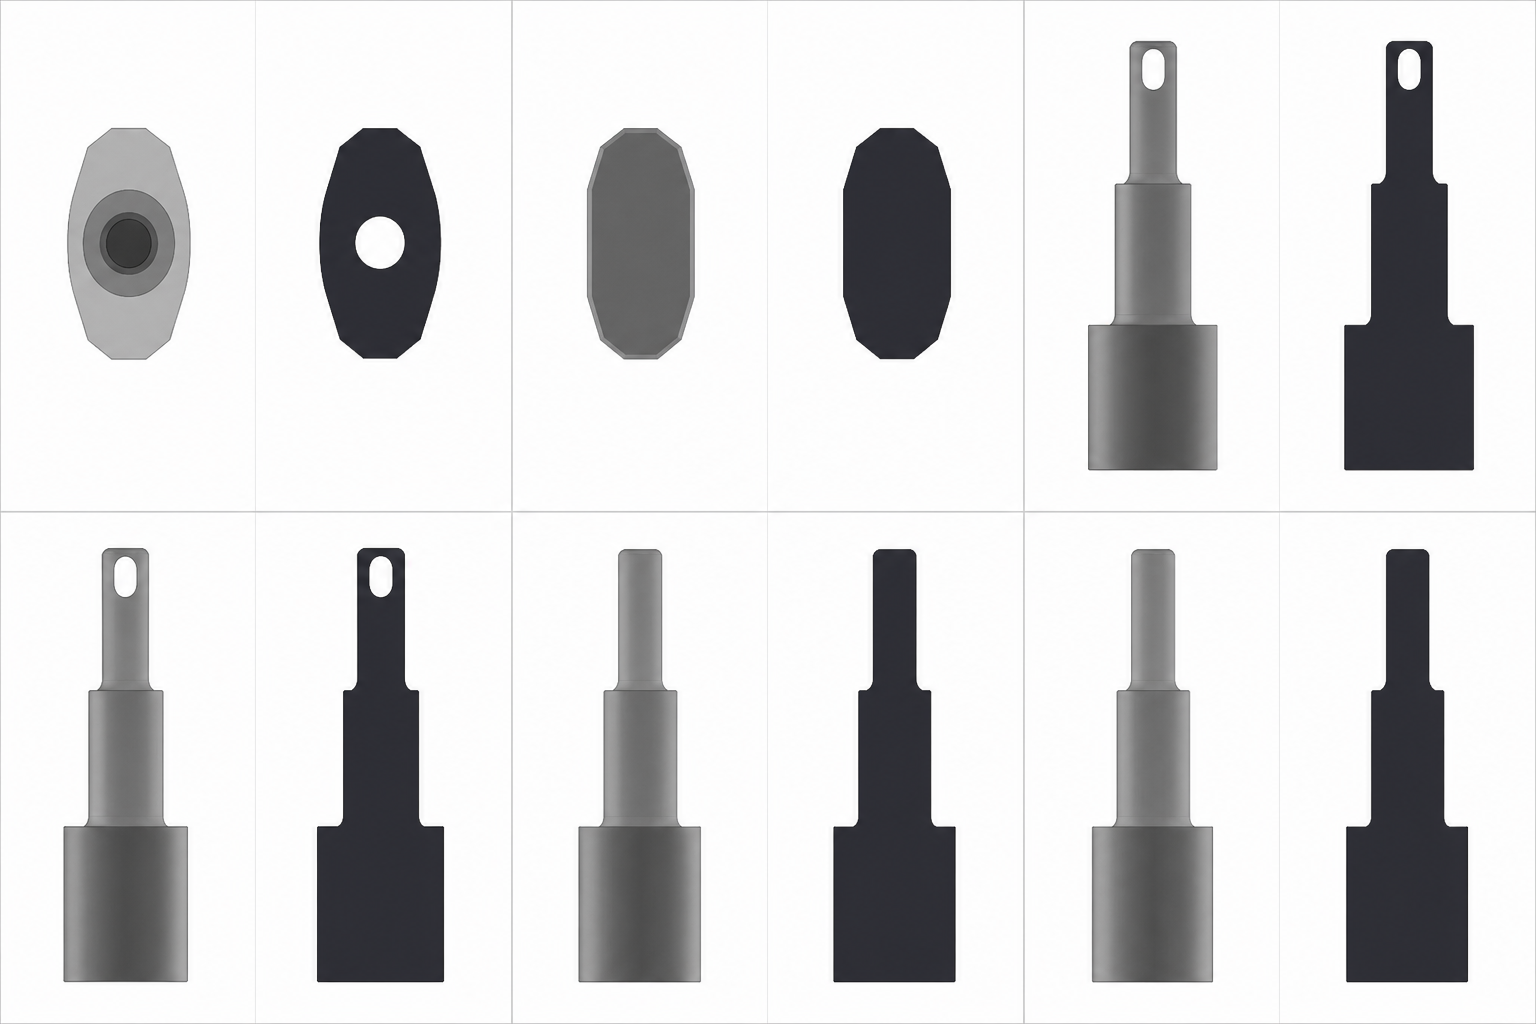
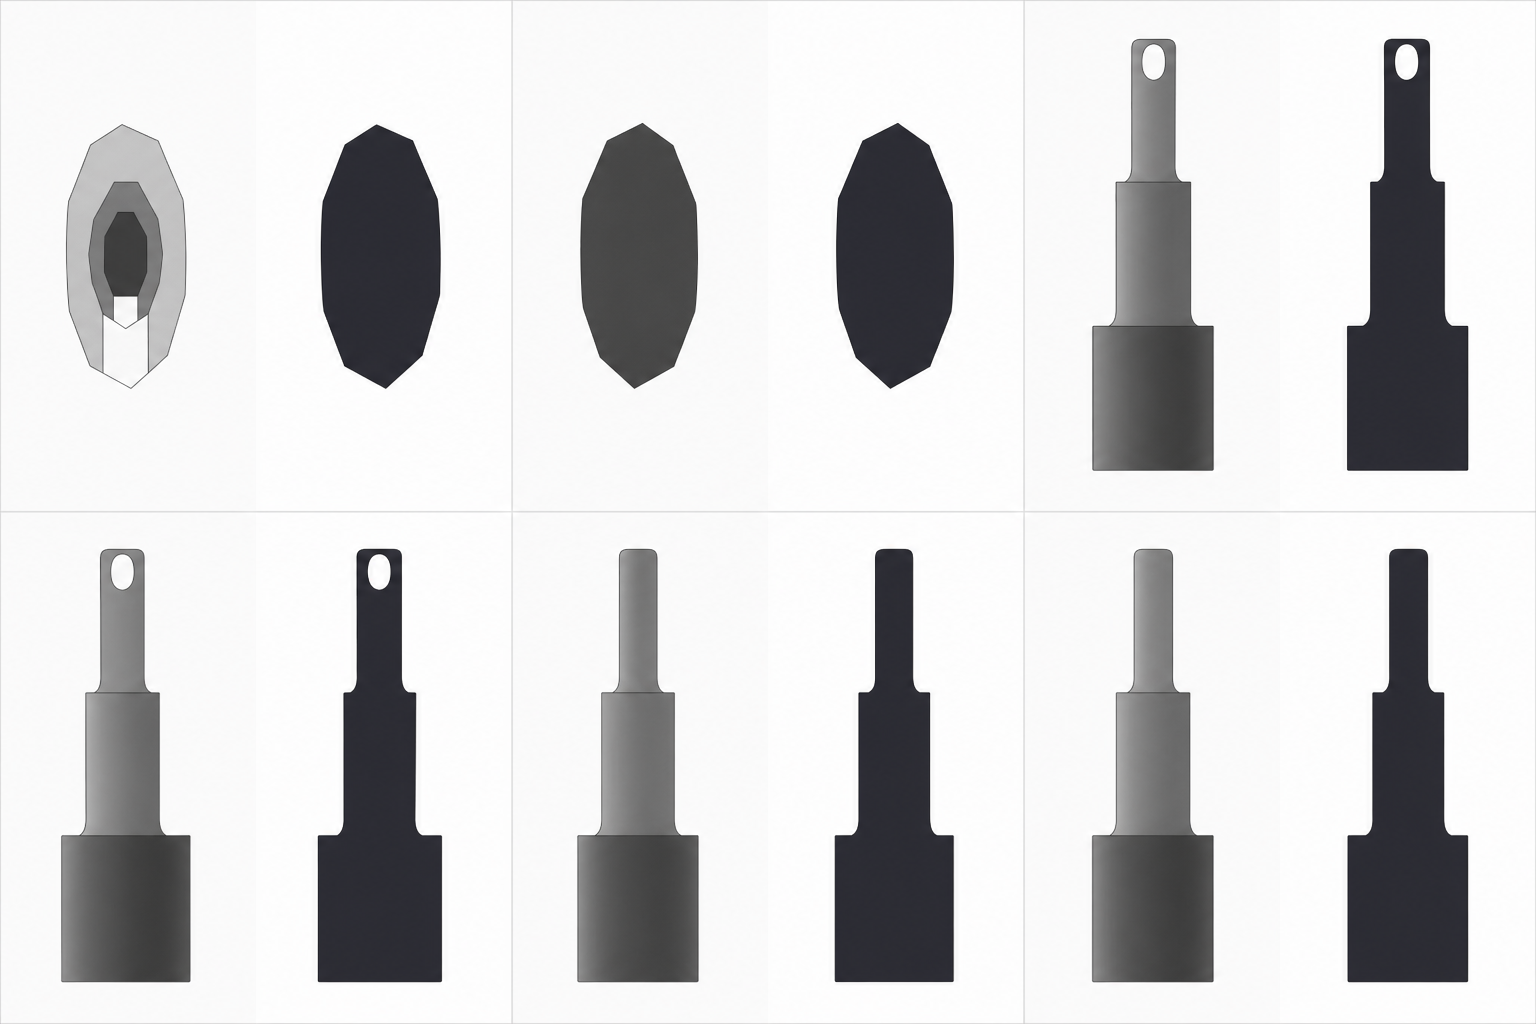
synth-clean: lock outline aspect ratio + smooth boundary noise
128105's top-down view was getting squashed into a small square instead of
the long oblong dumbbell-from-above shape. Adds an absolute rule that the
outer outline size, position and aspect ratio must match the input, while
still allowing the model to smooth out small boundary notches that are not
confirmed by perpendicular views (so we don't preserve fake hanging slots).

128105 + 000035 + 002354 now render correctly: real through-bores preserved,
no phantom holes, outlines match the recon proportions. 117514 still keeps
a phantom Front+Back hanging slot from the recon noise notch - to be
addressed in a follow-up.

Made-with: Cursor

diff --git a/scripts/synthesize_clean_views.py b/scripts/synthesize_clean_views.py
@@ -187,9 +187,10 @@ def render_clean_input_grid(stl_path: Path, out_path: Path) -> dict:
 # ---------------------------------------------------------------------------
 
 CLEANUP_PROMPT = """This is a 6-view orthographic engineering blueprint of one mechanical CAD part,
-reverse-engineered from a noisy 3D point-cloud scan. Your job is to think like a
-CAD designer and INFER the part's intended shape, then redraw the views as if
-they came from the original CAD model rather than from a noisy scan.
+reverse-engineered from a noisy 3D point-cloud scan. Your job is to redraw the
+views as if they came from the ORIGINAL clean CAD model: keep the same shape
+and proportions, clean up scan noise, and keep only the openings that are
+unambiguously real designed through-features.
 
 LAYOUT (do NOT change): a 3 columns x 2 rows grid of six views in this order
 - top row, left to right:     Top, Bottom, Front
@@ -198,45 +199,83 @@ Each cell is split into two halves:
 - LEFT half:  grayscale depth render (darker = nearer to camera)
 - RIGHT half: black-on-white silhouette mask of the same view
 
-Your most important job is to DISTINGUISH two kinds of gap that look similar
-in the raw views but mean very different things:
+ABSOLUTE RULE - PRESERVE OVERALL SIZE, POSITION AND PROPORTIONS.
+The size, position and aspect ratio of each silhouette in the input is correct.
+The cleaned output must occupy the same cell, at the same overall scale, with
+the same overall aspect ratio. You may NOT:
+  - shrink or squash the silhouette into a different aspect ratio (e.g. do
+    NOT redraw a long oblong as a small square)
+  - reposition the part within its cell
+  - change which cell of the grid is occupied by which view
+  - introduce new global geometry that wasn't suggested by the input
 
-(A) NOISE GAPS - these are RECONSTRUCTION ARTIFACTS, infer the missing shape:
-    - small, irregularly-shaped white blobs INSIDE the dark silhouette
-    - ragged or scalloped patches along the silhouette boundary
-    - holes that DO NOT appear in the matching opposite view
-      (a real Top hole would also show up in Bottom; a real Front hole would
-      also show up in Back)
-    - holes that break the part's axis-aligned / mirrored symmetry
-    - depth-view splotches that don't correspond to a clean circle/slot
-    => INFER what the surface should look like and CLOSE these gaps.
-       Fill them with the same dark silhouette color. Reconstruct the
-       surface based on the surrounding geometry and the part's symmetry.
+CLEAN UP NOISE BOTH INSIDE AND ON THE BOUNDARY.
+Within the constraint above, you SHOULD aggressively smooth out scan noise
+that appears either inside the silhouette (white pinholes/blobs) or on the
+silhouette boundary (small notches, peninsulas, ragged edges). A clean CAD
+silhouette has straight edges where it should be straight, smooth curves
+where it should be curved, and clean axis-aligned corners.
 
-(B) REAL DESIGN FEATURES - PRESERVE these, never fill them:
-    - clean, regular circular or slot-shaped openings
-    - holes that DO appear in the matching opposite view at the same
-      location (genuine through-bores show up in BOTH Front+Back, or
-      BOTH Left+Right, or BOTH Top+Bottom)
-    - dark concentric rings in a depth view that indicate a counterbore
-      or through-hole going down the view axis
-    - features that respect the part's symmetry plane
+A small notch or pocket on the OUTER BOUNDARY of one view (e.g. a tiny
+"hanging slot" cut into the top of a column in the Front view) is REAL only
+if perpendicular views confirm it. Specifically:
+  - A slot cut down through the top of a column in Front view must show a
+    matching slot-shaped opening in the Top silhouette.
+  - A notch cut sideways into the column in Front view must show a matching
+    notch in the Right or Left silhouette at the same height.
+If the perpendicular view does NOT confirm the boundary notch, the notch is
+scan noise. SMOOTH IT OUT - redraw the boundary as the clean continuous
+outline that the noise was nibbling away at.
+
+INTERIOR FEATURES - distinguish real openings from noise.
+
+A white opening INSIDE a dark silhouette is REAL only if it passes the matching
+opposite-view test:
+
+  - A vertical (Z-axis) through-bore must show a clean opening in BOTH Top
+    AND Bottom silhouettes at the SAME relative location.
+  - A horizontal (Y-axis, front-back) through-bore must show a clean opening
+    in BOTH Front AND Back silhouettes at the SAME relative location.
+  - A horizontal (X-axis, left-right) through-bore must show a clean opening
+    in BOTH Right AND Left silhouettes at the SAME relative location.
+  - A through-bore visible end-on (a small clean circle inside a silhouette
+    that is the END FACE of the bore) is real if the perpendicular views
+    show the bore as a clear opening. Example: dumbbell with bores along
+    the long axis - Front + Back show large openings, Right + Left show
+    small end-on circles. Preserve all four.
+
+If a feature passes the matching test, KEEP it (preserve size, shape and
+position). If a feature fails the matching test, FILL IT with the silhouette
+color (it is reconstruction noise, not a real hole).
+
+EXPLICITLY NOISE - always close these:
+  - Small notches near the top or bottom of a column that have NO matching
+    opening in the perpendicular axial view (e.g. a Front-view "hanging
+    slot" with no corresponding opening in Top). FILL.
+  - Concentric rings in a depth view paired with a SOLID opposite silhouette
+    -> that's a blind recess / counterbore, NOT a through-hole. The recess
+    is captured by depth shading; keep the silhouette solid.
+  - Pinholes, irregular speckle, ragged peninsulas of white inside the
+    silhouette. FILL.
+  - Any opening visible in fewer than the required number of matched views.
+
+NEVER invent symmetric features. If Front + Back show a real bore, keep it
+in Front + Back; do NOT add a matching opening to Right or Left unless those
+views already show one.
 
 When you redraw each silhouette:
-- Make every outer boundary crisp, axis-aligned where appropriate, and
-  continuous. Reconstruct straight edges as straight, curved edges as smooth.
-- Use the part's symmetry to repair one view from its mirrored counterpart
-  (Front <-> Back, Left <-> Right, Top <-> Bottom).
-- Use the depth view to validate the silhouette: if the depth view shows a
-  clean filled face, the silhouette must be solid; if the depth view shows
-  a clean dark circle, the silhouette must have a matching white circle.
-- The cleaned silhouette should look like a CAD drawing, not a scan.
+  - Reproduce the outer outline at the SAME size and position as the input.
+  - Fill all noise gaps inside.
+  - Keep the real openings exactly where the input has them.
+  - Make every kept edge crisp and clean (straight where straight, smooth
+    curves where curved).
 
 KEEP the same 3x2 LAYOUT and the same 6 views in the same positions. KEEP the
 depth-then-silhouette internal split of each cell. Use grayscale only. Do NOT
 add labels, captions, dimensions, borders, arrows, perspective, shading or
 artistic flourishes. No extra geometry, no decoration. The result should look
-like a clean engineering orthographic set."""
+like a clean engineering orthographic set with the same overall layout and
+proportions as the input."""
 
 
 def _png_b64_to_bytes(b64: str) -> bytes:
